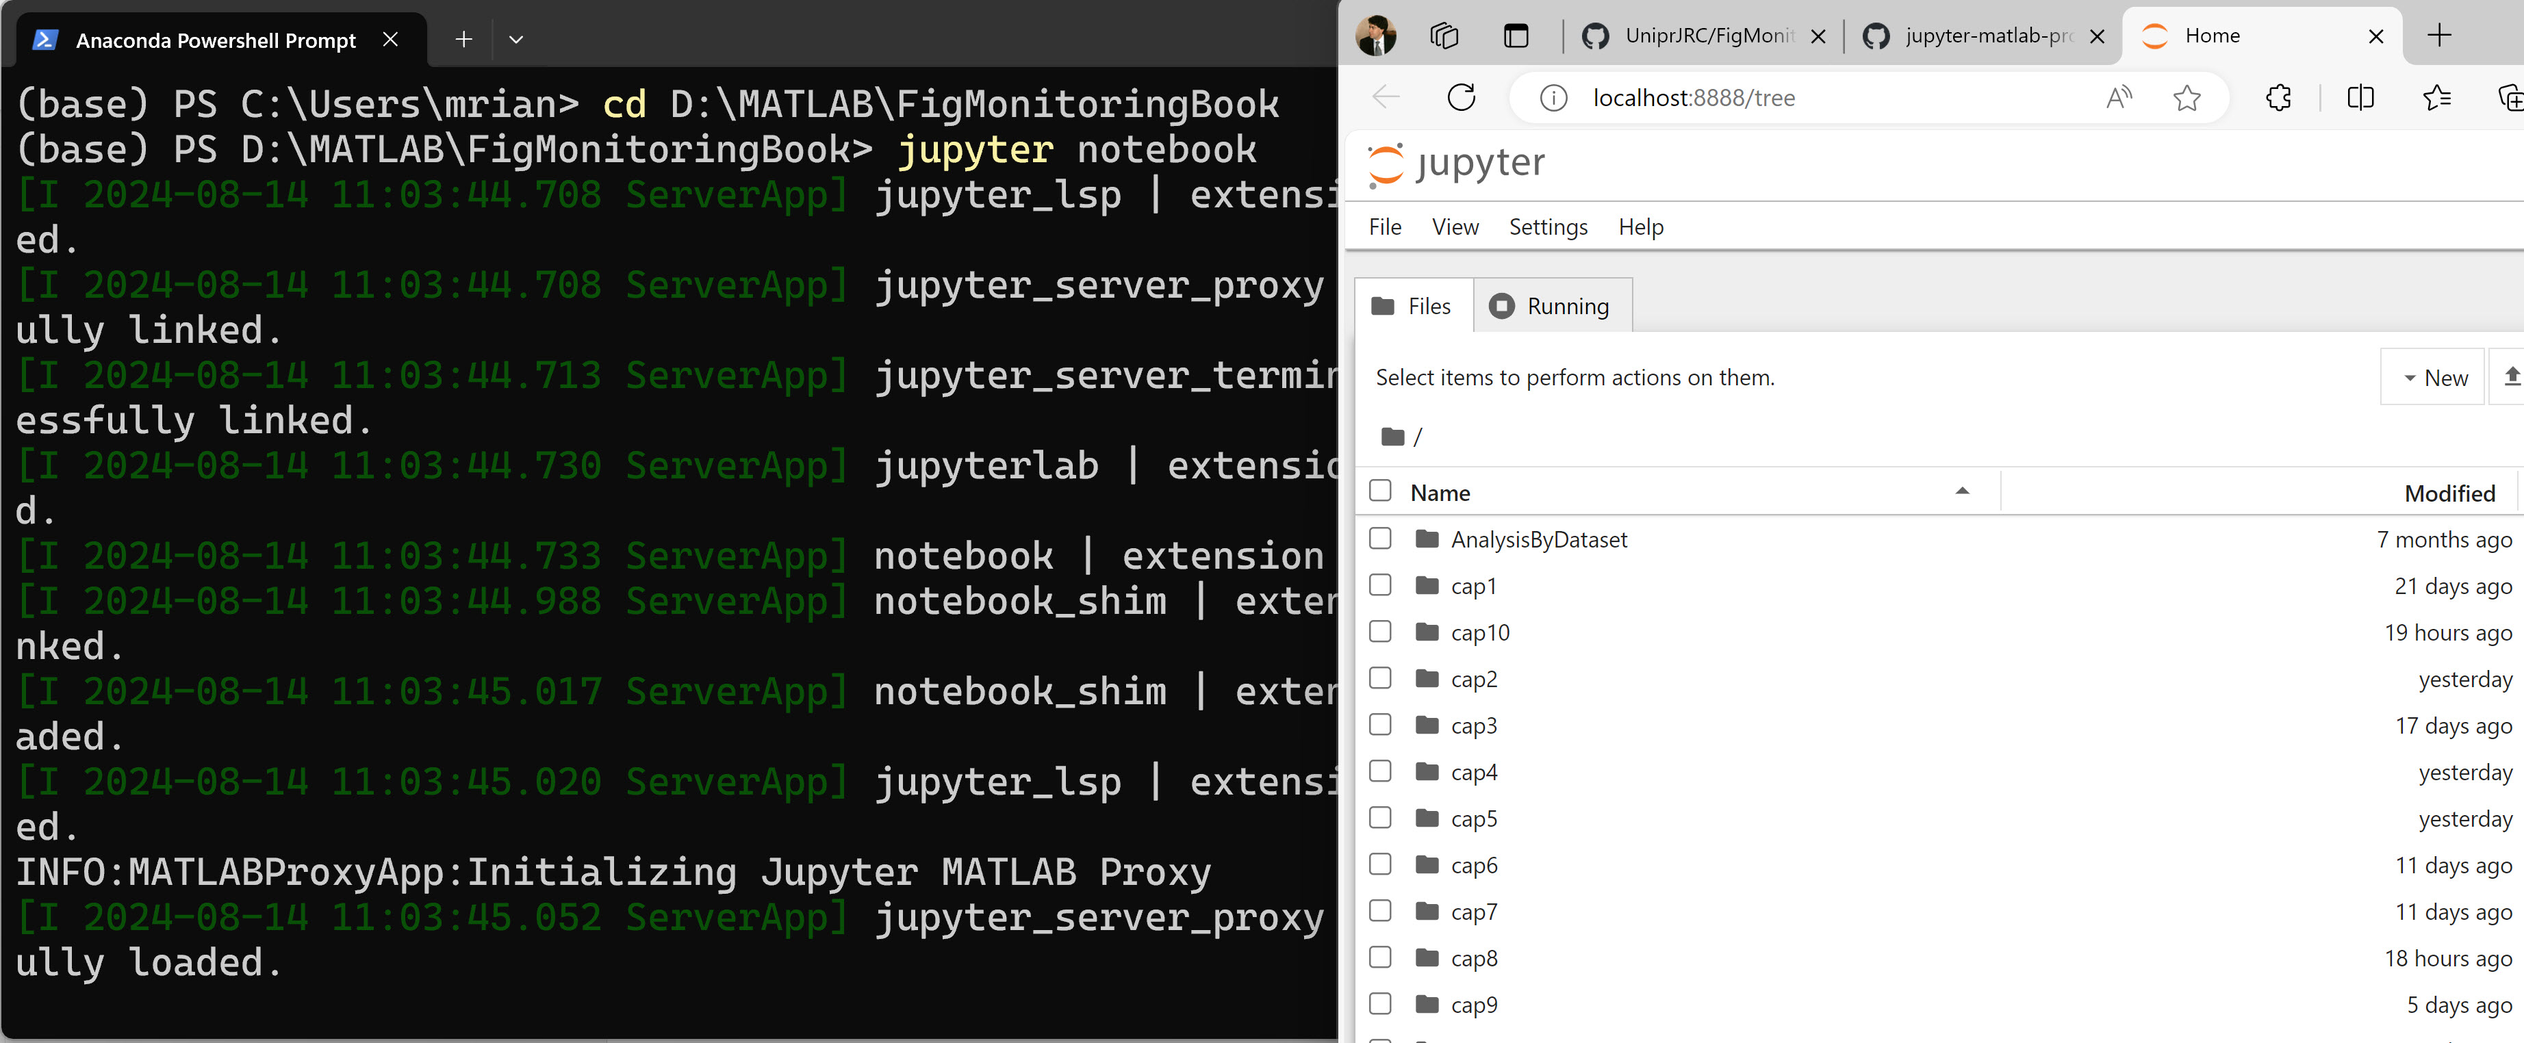
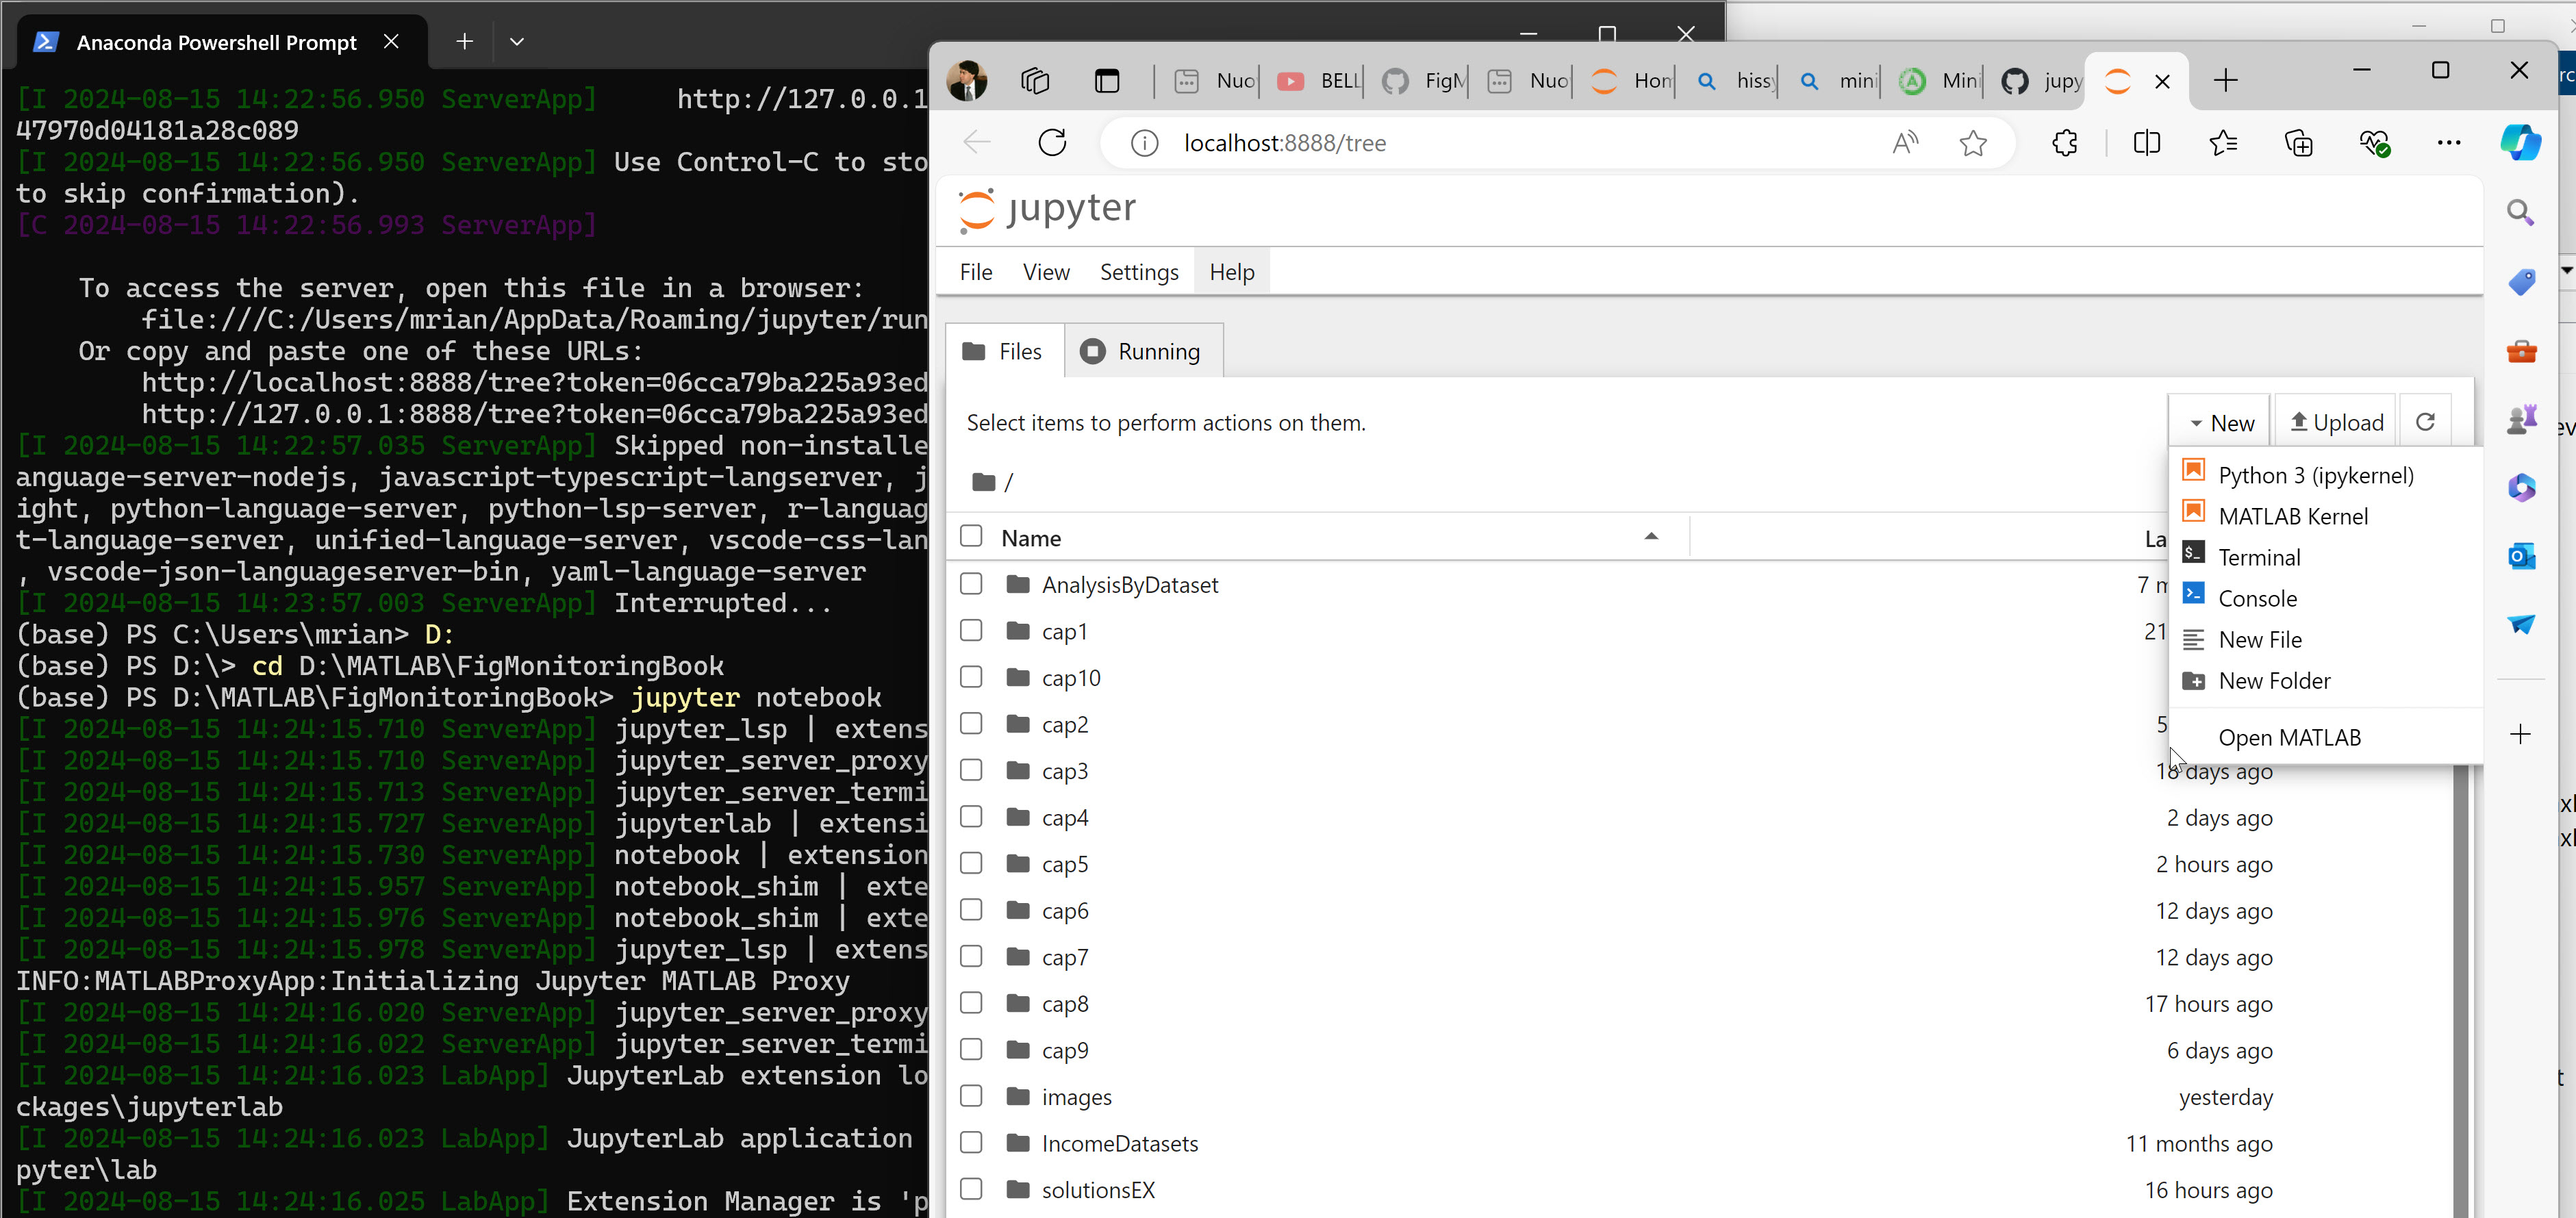
Updated version after VT comments

diff --git a/ipynbRunInstructions.md b/ipynbRunInstructions.md
@@ -1,29 +1,26 @@
-#  How to run MATLAB code in Jupyter notebooks 
+# Preface about Jupyter notebooks. What is this? Why do I need it?
 
-For each chapter of the book we have given for each file the original source .m file and the corresponding .ipynb file.
-The .m file (after installing FSDA) can be run on your MATLAB desktop or in MATLAB Online (please see the button run in MATLAB Online).
-The .ipynb is given in order to show you the output of the code.
-The purpose of this file is to show how these .ipynb can be run in jupiter notebook. 
+ First of all let us address the question you have in your mind: “why I would want to run the .ipynb file inside a jupyter notebook?”.
 
-The official MathWorks reference on how to run  MATLAB code in Jupyter notebooks is at [Jupyter Proxy](https://github.com/mathworks/jupyter-matlab-proxy/blob/main/README.md)
+Jupyter notebook is an editor that is language agnostic in the sense that under this environment it is possible to run any program: python code (through python kernel), MATLAB code (through MATLAB kernel), R code (through R kernel)  or any other language using the associated kernel.
 
-Please follow the steps detailed in the file above. If something went wrong and the [TroublesShooting](https://github.com/mathworks/jupyter-matlab-proxy/blob/main/troubleshooting/troubleshooting.md) did not work (as in our case) try the instructions below
+Jupyter is written in Python and therefore needs python environment to run (however it could have been written in any other language), therefore you should have a python distribution (such as anaconda or miniconda). If for example miniconda is installed jupyter is launched through the miniconda power shell.
 
-## WINDOWS INSTALLATION
+
+## WINDOWS INSTALLATION of jupyter notebooks
 
 Here are the most relevant steps of the setup process.
 
-Open your Python terminal (not the CMD prompt!) (i.e. the Anaconda prompt) and paste these 3 lines:
+If you already a Python envirnoment
+
+Open your Python terminal (not the CMD prompt!) (i.e. the Anaconda prompt) and paste the line to install the jupiter notebook:
 
 ```
-python -m pip install jupyter-matlab-proxy
-
 python -m pip install notebook
 
-python -m pip install jupyterlab
 ```
 
-If you do not already have a Python setup you can run these lines in the Windows Terminal (CMD)
+If you do not already have a Python setup you can copy/paste these lines in the Windows Terminal (CMD) in order to install a Python environment such as [miniconda](https://docs.anaconda.com/miniconda/#quick-command-line-install)
 
 ```
 curl https://repo.anaconda.com/miniconda/Miniconda3-py311_24.5.0-0-Windows-x86_64.exe -o miniconda.exe
@@ -31,8 +28,8 @@ start /wait "" miniconda.exe /S
 del miniconda.exe
 ```
 
-this is the last supported Python version (3.11.24) of the MATLAB Jupyter proxy project
-
+Note that we recommend to install this specific verison of Python  (3.11.24) because it is the
+is the last supported Python version to run the MATLAB kernel 
 
 
 Now, still into the Python prompt (Anaconda prompt) if you type 
@@ -41,7 +38,7 @@ Now, still into the Python prompt (Anaconda prompt) if you type
 jupyter notebook
 ```
 
-You should be able to start a new Jupyter notebook with a MATLAB kernel.
+You should be able to start a new Jupyter notebook
 
 If you get the error
 
@@ -56,8 +53,18 @@ try
 pip install jupyter notebook 
 python -m notebook 
 ```
+Note at this point among the available kernels you just see the Python kernel.
+In order to launch .m files you need to install the MATLAB kernel. 
 
-Now, finally you should be able to start a new Jupyter notebook with a MATLAB kernel. For example if you have navigated into the folder FigMonitoringBook you should see inside localhost the subfolders of the book and in the background the terminal you used to launch the instruction jupiter notebook
+# Installation of MATLAB kernel inside Jupiter notebooks
+
+In order to install the MATLAB kernel, in the powershell you need to run the following command
+
+```
+python -m pip install jupyter-matlab-proxy
+```
+
+Now after typing `jupyter notebook` in the powershell if you have navigated into the folder FigMonitoringBook you should see inside localhost the subfolders of the book and in the background the terminal you used to launch the instruction jupiter notebook and from the button New you should be able to see the MATLAB kernel option
 
 
 ![](./images/jupyter.jpg)
@@ -99,3 +106,11 @@ Note that in the Python prompt it is possible to see which release Jupiter MATLA
 `INFO:MATLABProxyApp:Found MATLAB executable at: C:\Program Files\MATLAB\R2024a\bin\matlab.EXE`
 
 Remark: of course do not forget to rename to MATLAB.exe the file MATLABtmp.EXE
+
+
+#  Additional resources 
+
+The official MathWorks reference on how to run  MATLAB code in Jupyter notebooks is at [Jupyter Proxy](https://github.com/mathworks/jupyter-matlab-proxy/blob/main/README.md)
+
+See also the section [TroublesShooting](https://github.com/mathworks/jupyter-matlab-proxy/blob/main/troubleshooting/troubleshooting.md) 
+
